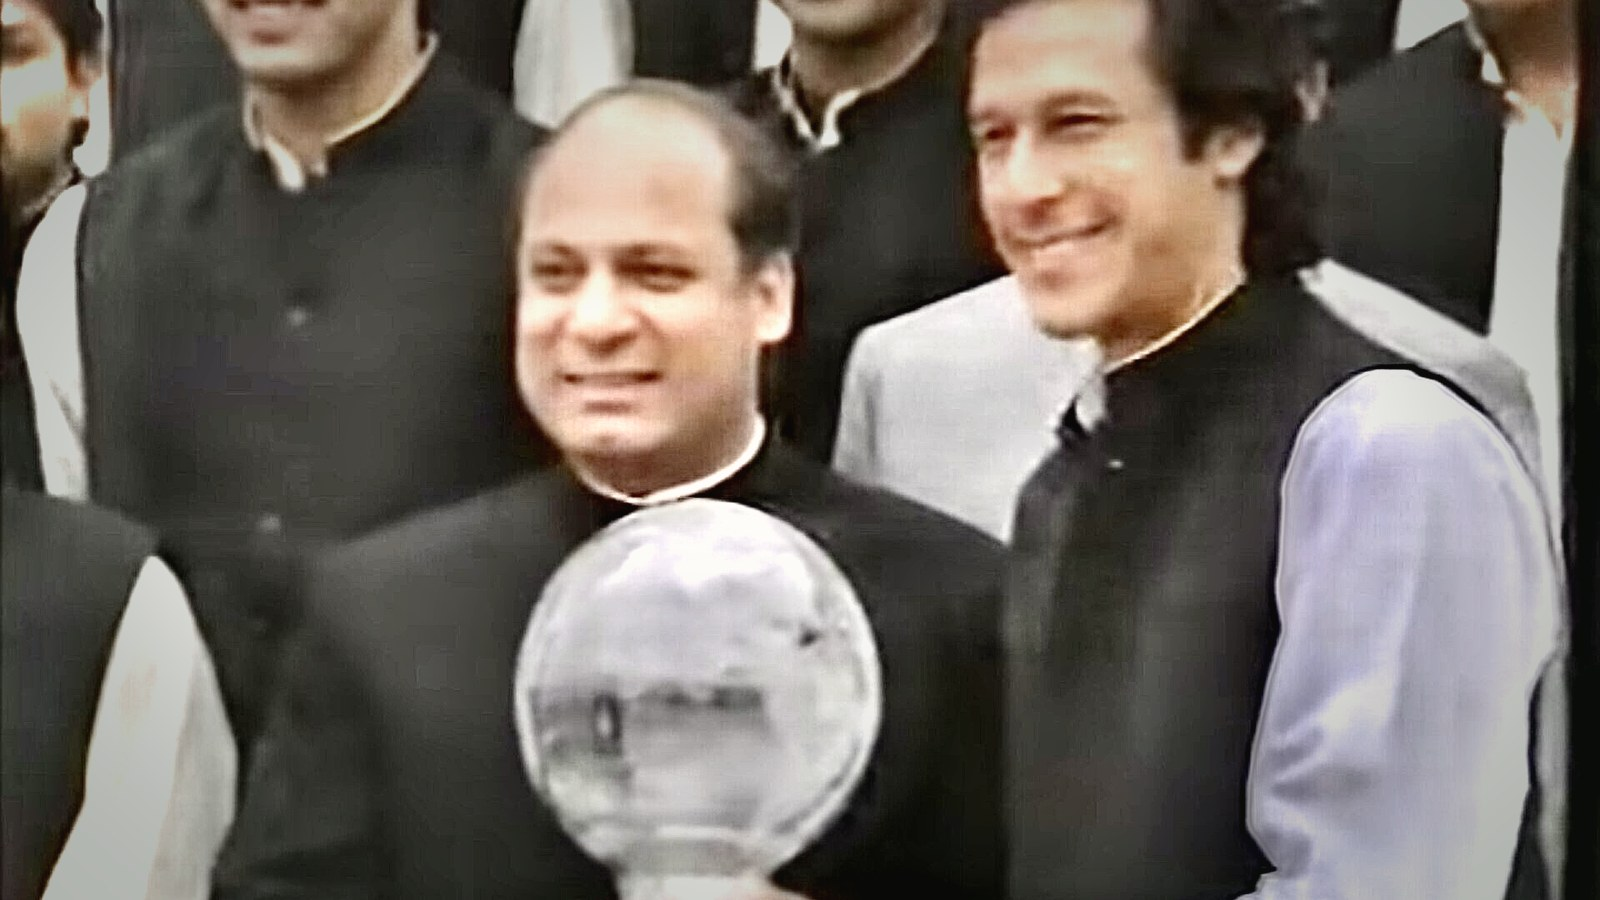
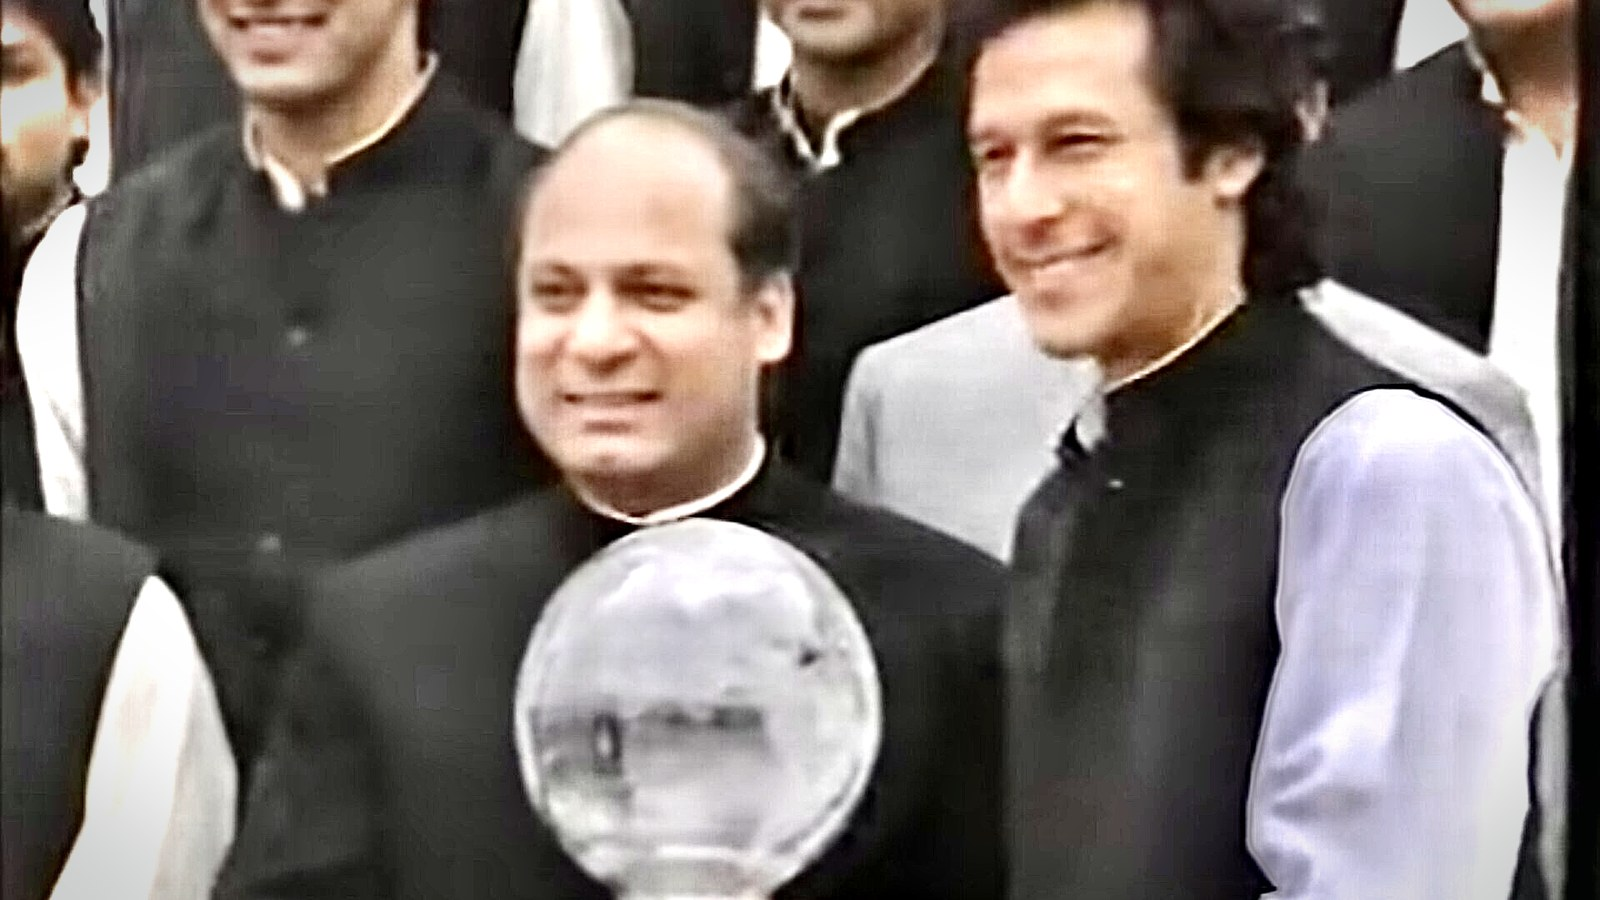
Use Humsafar photo for Showbiz and recrop 1992 trophy shot with owner credits
Showbiz folder now uses the Dawn Humsafar header already on that page.
Sports uses the licensed 1992 World Cup trophy photograph, credited to M.T. Chaudhry.

diff --git a/index.html b/index.html
@@ -114,7 +114,7 @@
 
   <link
     rel="stylesheet"
-    href="css/home.css?v=11"
+    href="css/home.css?v=12"
   />
 
   <!-- Structured Data -->
@@ -572,6 +572,7 @@
             </span>
 
             <span class="atlas-plate">People & traditions</span>
+            <span class="atlas-photo-credit">Photo: islamabadians</span>
 
           </a>
 
@@ -690,6 +691,7 @@
             </span>
 
             <span class="atlas-plate">Land & landscape</span>
+            <span class="atlas-photo-credit">Photo: islamabadians</span>
 
           </a>
 
@@ -729,8 +731,8 @@
           >
 
             <img
-              src="images/home/wc1992.jpg?v=2"
-              alt="Imran Khan and teammates with the 1992 Cricket World Cup trophy in Melbourne"
+              src="images/home/wc1992.jpg?v=3"
+              alt="Imran Khan with the 1992 Cricket World Cup trophy after Pakistan’s victory in Melbourne"
               width="1600"
               height="900"
               loading="lazy"
@@ -759,6 +761,7 @@
             </span>
 
             <span class="atlas-plate">Melbourne 1992</span>
+            <span class="atlas-photo-credit">Photo: M.T. Chaudhry</span>
 
           </a>
 
@@ -870,10 +873,10 @@
           >
 
             <img
-              src="images/home/showbiz-stars.jpg?v=2"
-              alt="Mahira Khan and Fawad Khan, stars of Pakistani television and film"
-              width="1600"
-              height="900"
+              src="images/humsafar-header.jpg?v=3"
+              alt="Mahira Khan and Fawad Khan in the Pakistani drama Humsafar"
+              width="800"
+              height="602"
               loading="lazy"
             />
 
@@ -898,6 +901,7 @@
             </span>
 
             <span class="atlas-plate">Mahira Khan · Fawad Khan</span>
+            <span class="atlas-photo-credit">Photo: Dawn.com</span>
 
           </a>
 
@@ -1102,10 +1106,11 @@
 
 
       <p class="atlas-credit">
-        Abdul Sattar Edhi photograph: Hussain, Wikimedia Commons, CC BY-SA 3.0.
-        1992 World Cup photograph: M.T. Chaudhry, Wikimedia Commons.
-        Mahira Khan: Bollywood Hungama, CC BY 3.0. Fawad Khan: Bollywood Hungama, CC BY 3.0.
-        Islamabad photographs: islamabadians.
+        Photographs belong to their owners and are used with credit:
+        Abdul Sattar Edhi — Hussain, Wikimedia Commons, CC BY-SA 3.0.
+        1992 World Cup — M.T. Chaudhry, Wikimedia Commons, CC BY 3.0.
+        Showbiz (Humsafar, Mahira Khan and Fawad Khan) — Dawn.com.
+        Islamabad street and landscape photographs — islamabadians.
       </p>
 
     </div>

diff --git a/showbiz.html b/showbiz.html
@@ -114,8 +114,8 @@
 
       <section class="sb-section" id="actors"><header class="sb-heading"><span class="eyebrow">The Performers</span><h2>Actors &amp; Actresses</h2><p>Generations of performers have shaped Pakistani cinema and television, from classic film icons to today's internationally recognised television stars.</p></header>
       <figure class="sb-pair">
-        <img src="images/home/showbiz-stars.jpg?v=2" alt="Mahira Khan and Fawad Khan" width="1600" height="900" loading="lazy" />
-        <figcaption>Mahira Khan and Fawad Khan — two of the most recognised faces of contemporary Pakistani television and film.</figcaption>
+        <img src="images/humsafar-header.jpg?v=3" alt="Mahira Khan and Fawad Khan in Humsafar" width="800" height="602" loading="lazy" />
+        <figcaption>Mahira Khan and Fawad Khan in <em>Humsafar</em>. Photograph: Dawn.com.</figcaption>
       </figure>
       <div class="sb-grid">
         <article class="sb-card"><h3>Classic Film &amp; Television</h3><ul class="sb-list"><li><strong>Waheed Murad</strong> — celebrated film star.</li><li><strong>Mohammad Ali</strong> — major actor of Pakistani cinema.</li><li><strong>Nadeem Baig</strong> — prominent film star.</li><li><strong>Javed Sheikh</strong> — actor and filmmaker.</li><li><strong>Talat Hussain</strong> — respected television and film actor.</li><li><strong>Abid Ali</strong> — influential television performer.</li><li><strong>Shabnam</strong> — iconic actress of Pakistani cinema.</li><li><strong>Babra Sharif</strong> — leading film actress.</li><li><strong>Samina Peerzada</strong> — prominent actress, director and producer.</li></ul></article>

diff --git a/css/home.css b/css/home.css
@@ -480,8 +480,8 @@ body.home .atlas-section-alt {
 .atlas-archive:focus-within .atlas-archive-visual img {
   transform: scale(1.05);
 }
-.atlas-archive-visual img[src*="wc1992"] { object-position: 52% 46%; }
-.atlas-archive-visual img[src*="showbiz-stars"] { object-position: 50% 12%; }
+.atlas-archive-visual img[src*="wc1992"] { object-position: 62% 42%; }
+.atlas-archive-visual img[src*="humsafar"] { object-position: 50% 48%; }
 .atlas-archive-visual img[src*="iqbal"] { object-position: 50% 10%; }
 .atlas-archive-visual img[src*="jinnah"] { object-position: 50% 8%; }
 .atlas-archive-visual img[src*="hills"] { object-position: 50% 38%; }
@@ -494,7 +494,7 @@ body.home .atlas-section-alt {
 .atlas-plate {
   position: absolute;
   left: 0.85rem;
-  right: 0.85rem;
+  right: 5.5rem;
   bottom: 0.72rem;
   z-index: 2;
   font-size: 0.66rem;
@@ -504,6 +504,20 @@ body.home .atlas-section-alt {
   font-weight: 700;
   text-shadow: 0 1px 8px rgba(0, 0, 0, 0.45);
   pointer-events: none;
+}
+.atlas-photo-credit {
+  position: absolute;
+  right: 0.65rem;
+  bottom: 0.55rem;
+  z-index: 2;
+  font-size: 0.58rem;
+  letter-spacing: 0.02em;
+  color: rgba(246, 237, 212, 0.9);
+  font-weight: 600;
+  text-shadow: 0 1px 6px rgba(0, 0, 0, 0.55);
+  pointer-events: none;
+  max-width: 46%;
+  text-align: right;
 }
 .atlas-icon {
   position: absolute;

diff --git a/sports.html b/sports.html
@@ -657,15 +657,15 @@
       </p>
       <figure class="archive-plate">
         <img
-          src="images/home/wc1992.jpg?v=2"
-          alt="Imran Khan and teammates with the 1992 Cricket World Cup trophy in Melbourne"
+          src="images/home/wc1992.jpg?v=3"
+          alt="Imran Khan with the 1992 Cricket World Cup trophy after Pakistan’s victory in Melbourne"
           width="1600"
           height="900"
           loading="lazy"
         />
         <figcaption>
-          Melbourne, 25 March 1992. Imran Khan with the Cricket World Cup trophy after Pakistan’s win.
-          Photograph: M.T. Chaudhry, Wikimedia Commons.
+          Melbourne, 25 March 1992. Imran Khan with the Cricket World Cup trophy after Pakistan beat England.
+          Photograph: M.T. Chaudhry, Wikimedia Commons, CC BY 3.0.
         </figcaption>
       </figure>
       <h3>Hockey — FIH World Cup</h3>
